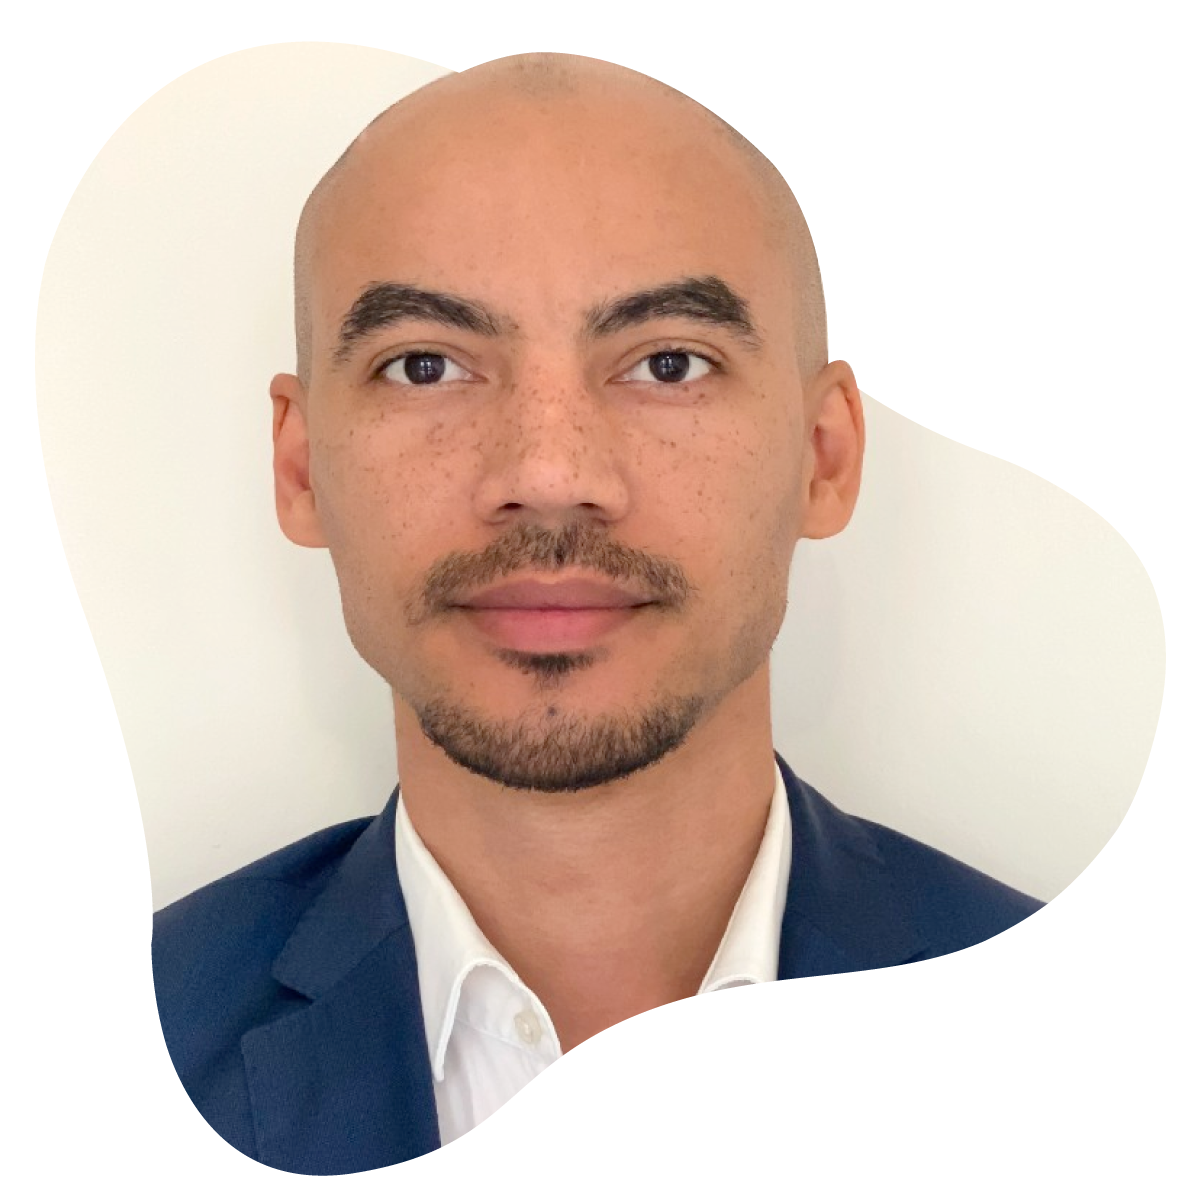
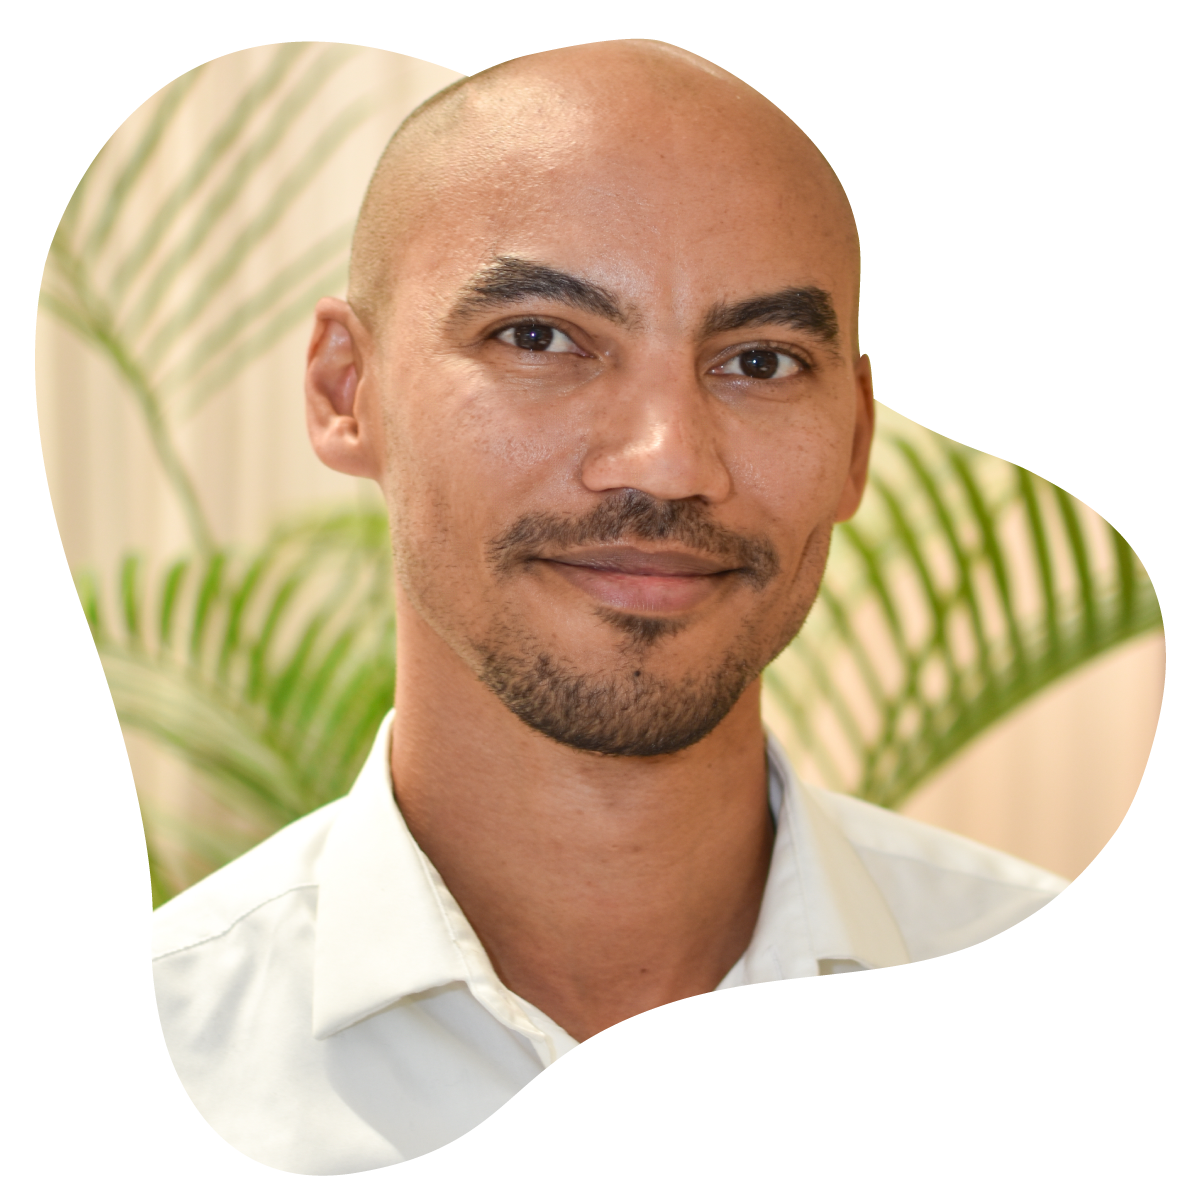
our-team: update images and styles

diff --git a/src/our-team.scss b/src/our-team.scss
@@ -21,6 +21,8 @@ main > figure {
   h3 {
     font-weight: normal;
     font-size: 1.3rem;
+    line-height: 1.5rem;
+    font-weight: 300;
   }
   h4 {
     font-weight: 600;
@@ -50,7 +52,7 @@ main > figure {
       width: 5rem;
       max-width: 100%;
       height: 7px;
-      margin-top: 1.5rem;
+      margin-top: 1rem;
     }
   }
 
@@ -60,7 +62,7 @@ main > figure {
     gap: 0 5rem;
     align-items: center;
     text-align: unset;
-    margin: 0 1.5rem;
+    margin: 0 3rem;
 
     &:nth-of-type(even) {
       grid-template-columns: 8fr 5fr;
@@ -70,9 +72,13 @@ main > figure {
     }
   }
   @media screen and (min-width: $max-width) {
-    margin: 0 calc(1.5rem - (100vw - #{$max-width}) / 2);
+    gap: 2rem;
+    margin: 0 calc(3rem - (100vw - #{$max-width}) / 2);
   }
   @media screen and (min-width: #{$max-width+$body-padding*2}) {
+    margin: 0 1.5rem;
+  }
+  @media screen and (min-width: #{1400px + 2*1.5*20px}) {
     max-width: 1400px;
     margin: 0 auto;
   }
@@ -108,7 +114,7 @@ img {
 }
 
 article > h3 {
-  font-weight: 500;
+  font-weight: 600;
   font-size: 2rem;
   letter-spacing: -0.5px;
   text-align: center;
@@ -158,6 +164,7 @@ main .social {
   }
   .social {
     justify-content: center;
+    margin-top: 0.75rem;
   }
 
   @media screen and(min-width: 750px) {
@@ -171,7 +178,7 @@ main .social {
   figure {
     display: flex;
     flex-direction: column;
-    gap: 0.5rem;
+    gap: 0.25rem;
     height: 100%;
   }
   figcaption {
@@ -179,7 +186,7 @@ main .social {
   }
 
   strong {
-    font-weight: normal;
+    font-weight: 300;
     font-size: 1.3rem;
   }
 
